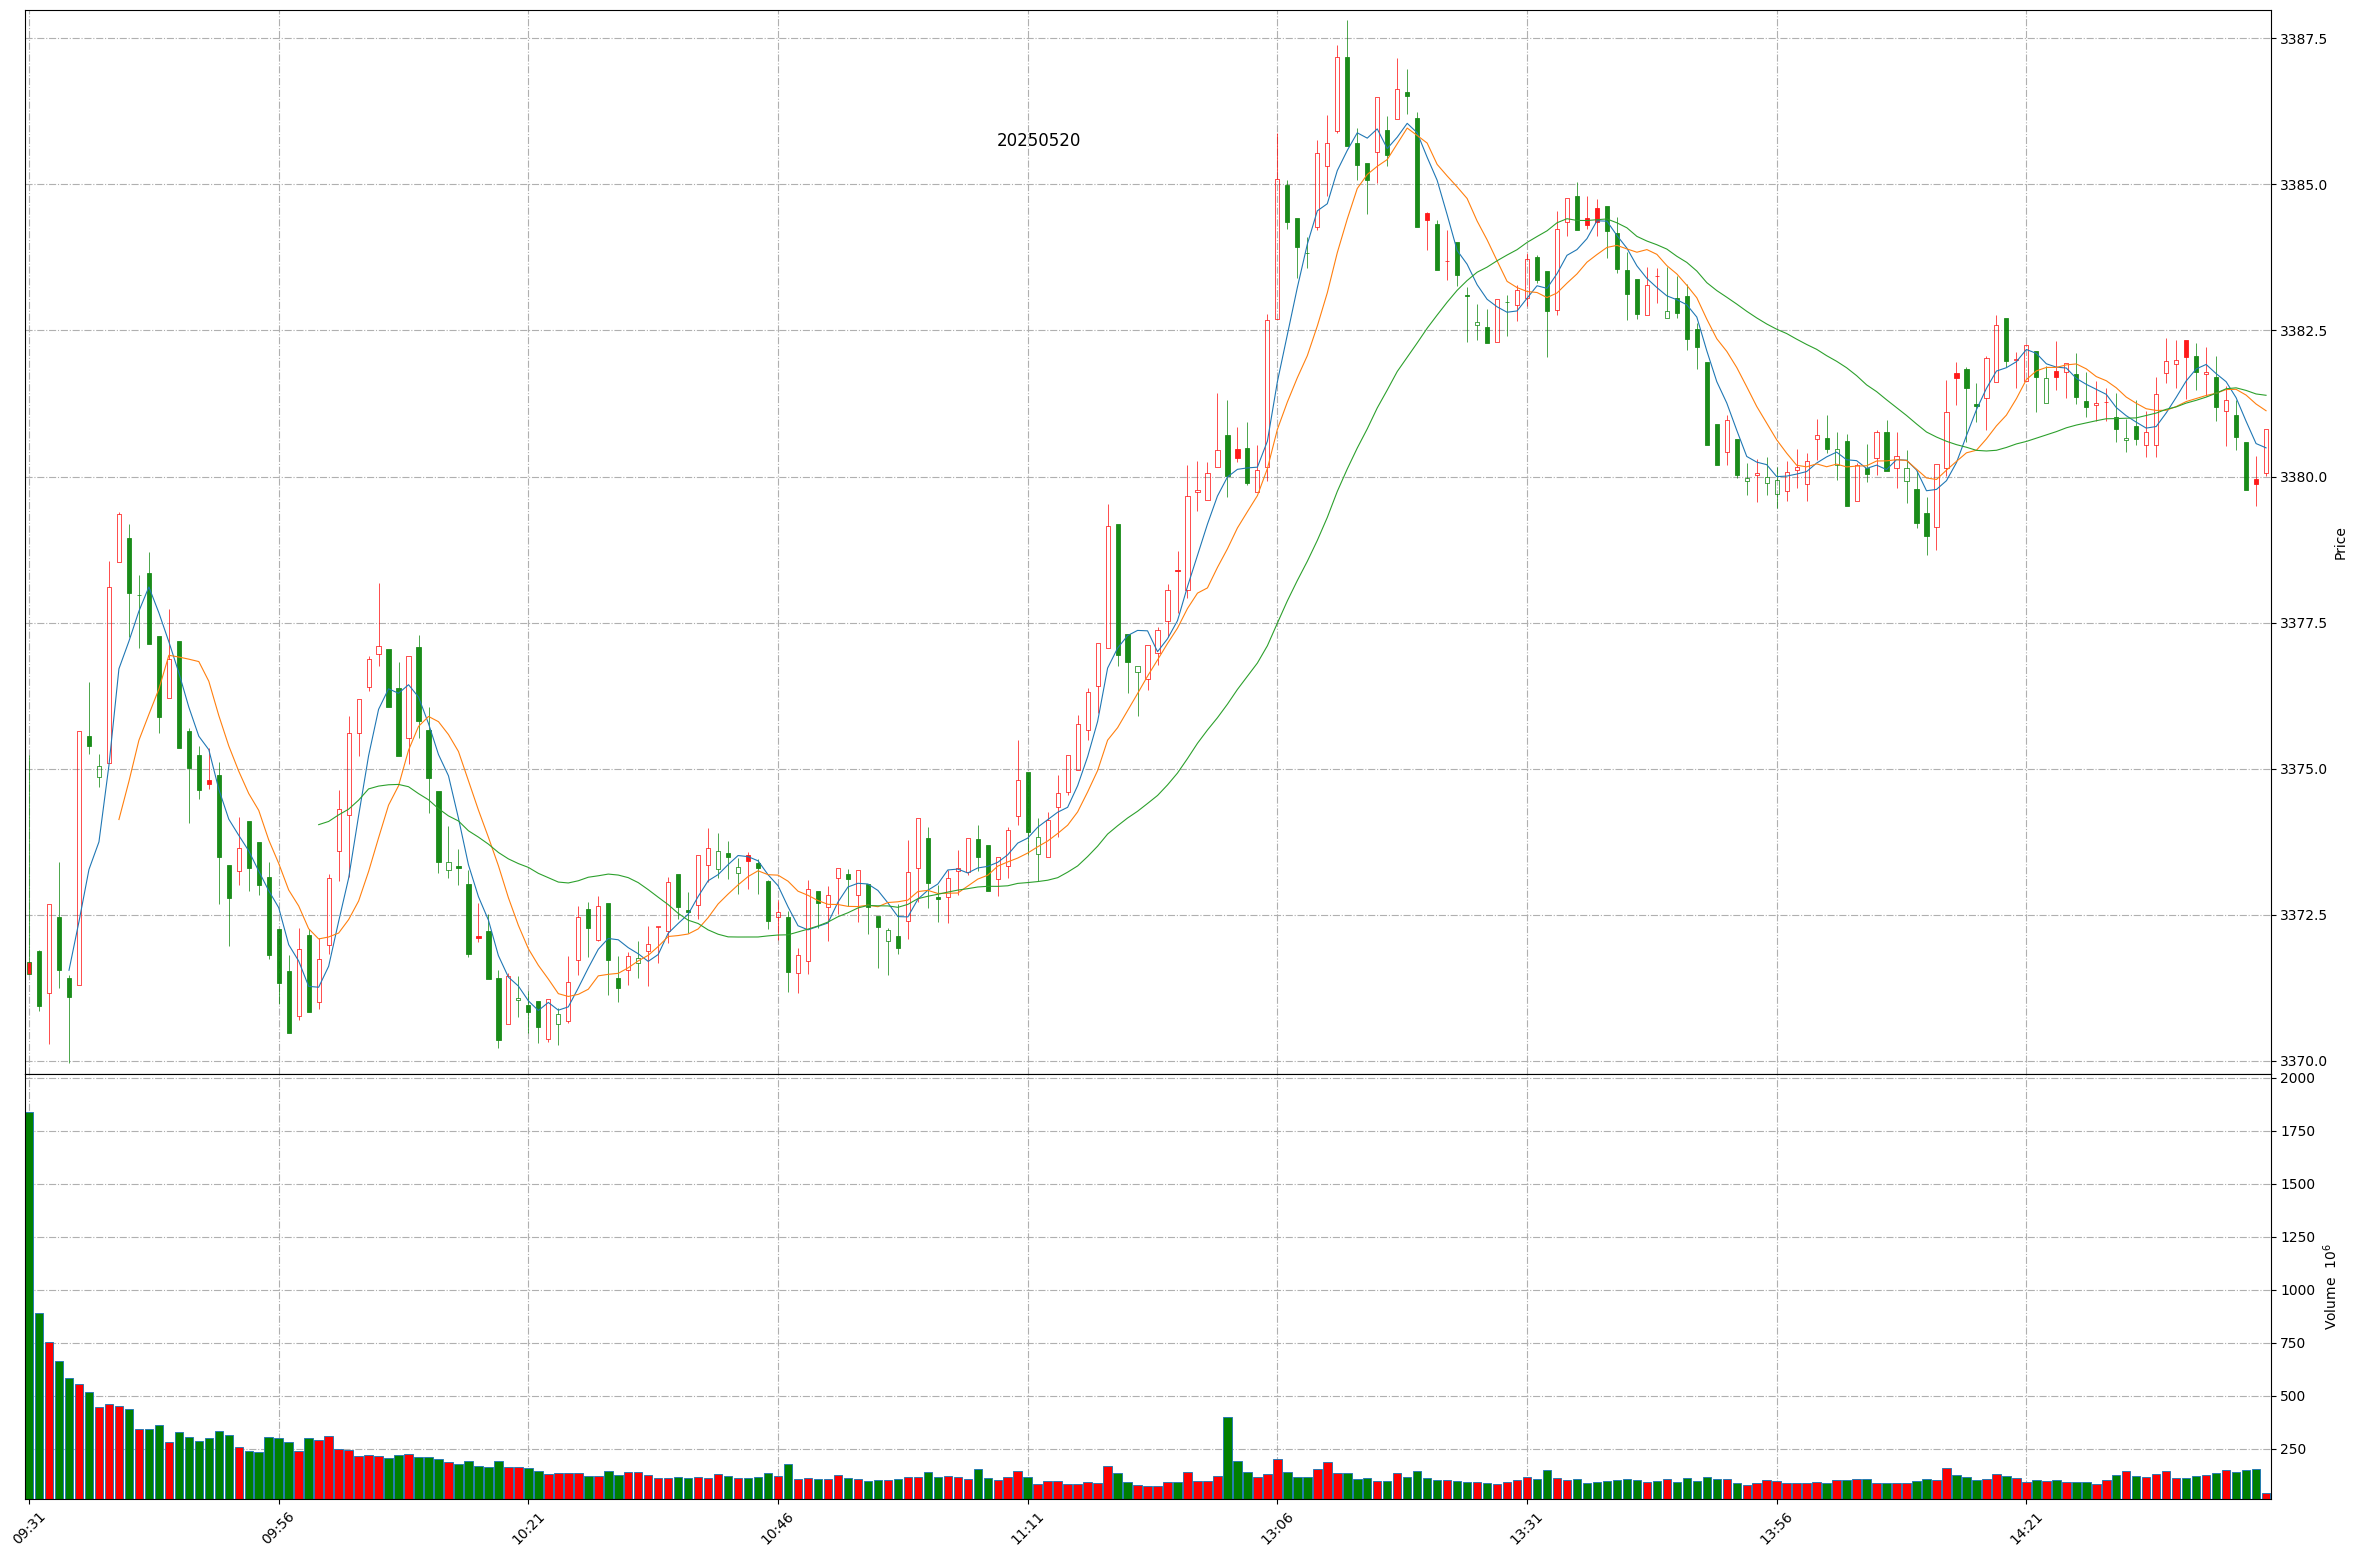
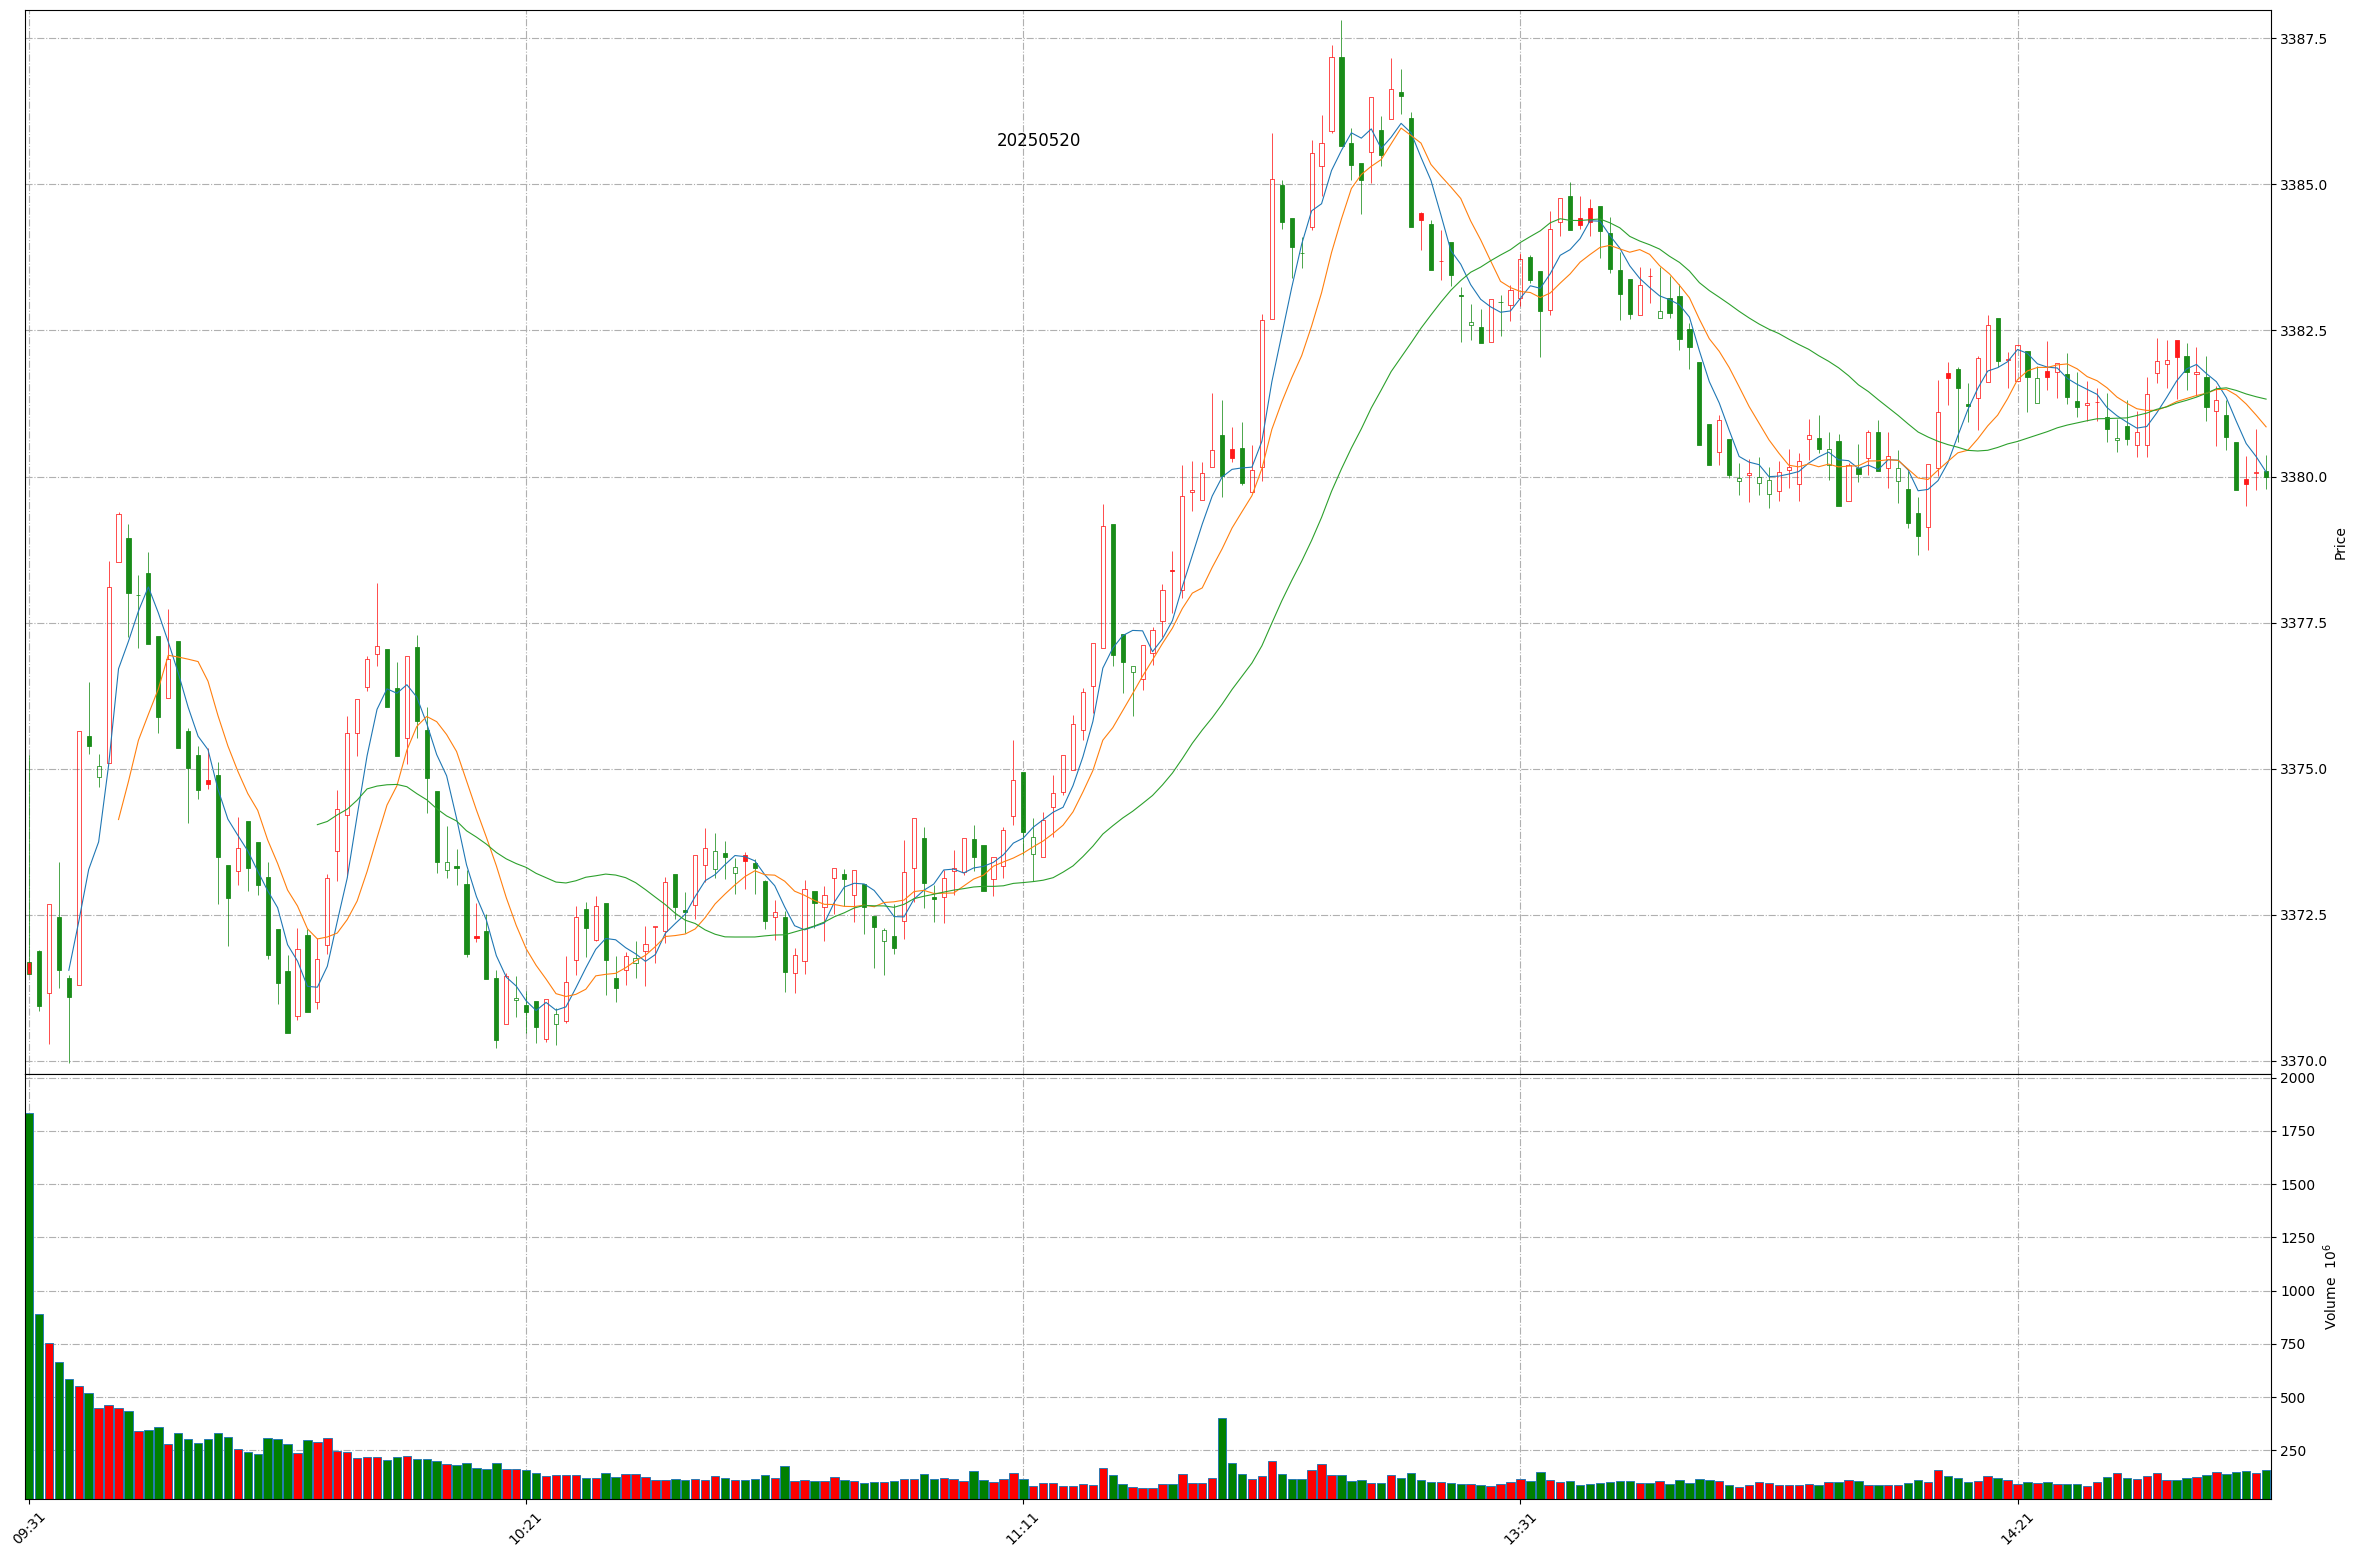
Github action update at 2025-05-20 14:46:19.

diff --git a/README.md b/README.md
@@ -1,11 +1,11 @@
 
 # Daily-A-share-market-quotes 每日 A 股指数（5min 更新）- 20250520
 
-### 上证指数 20250520 14:44
+### 上证指数 20250520 14:46
 ![](./fig/2025/5/20250520-sh000001.png)
 
-### 深证成指 20250520 14:44
+### 深证成指 20250520 14:46
 ![](./fig/2025/5/20250520-sz399001.png)
 
-### 北证50 20250520 14:44
+### 北证50 20250520 14:46
 ![](./fig/2025/5/20250520-bj899050.png)
